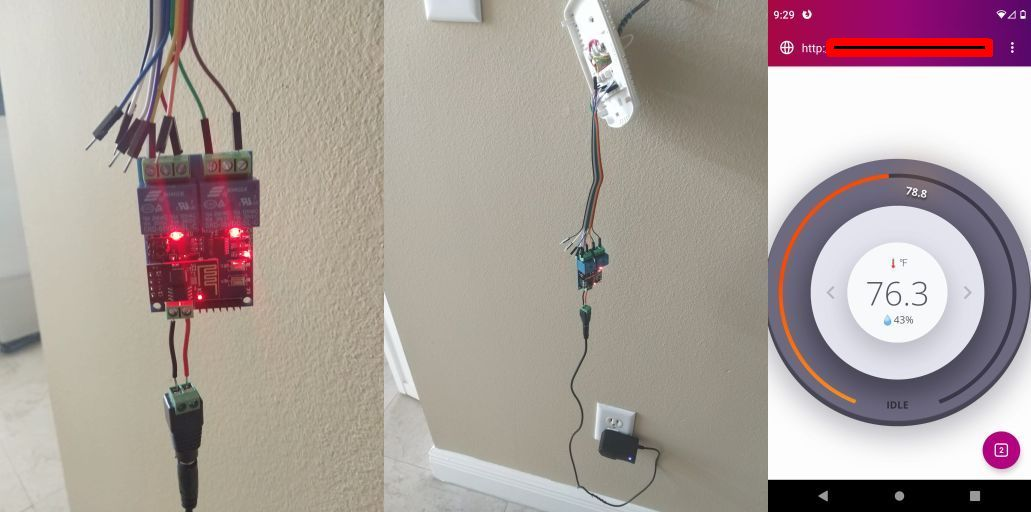
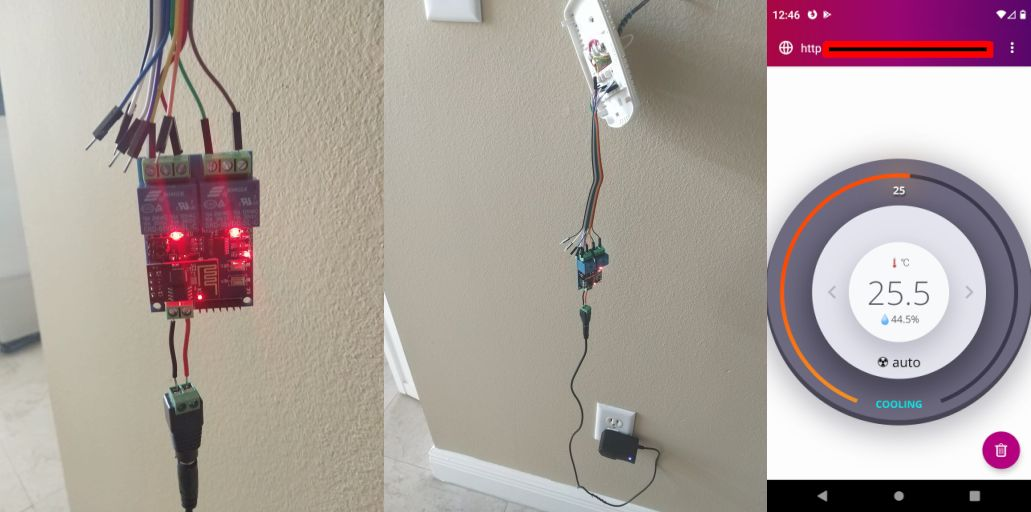
Added fan control, javascript strict mode
The fan has a single rule which is the state set to "auto" (match ac state) or "on" (always on).

The html page shows the current rule "auto" or "on", and when the fan is on, the
html page shows the state in black, gray otherwise.

Files:

lessmostat.py
- Added fan control, right now the fan can only be set to "on" or "auto".

lessmostat.html
- Added display of fan state and interaction.
- Added strict mode, fixed variable declarations.

lessmostat.css
- Added display of fan state.

readme.md
- Removed fan control todo

tiles.pjg
- Added web UI pic with fan control

Tests:
- Controlled fan on and auto with the html ui
  - verified when AC turns on and fan control is auto, the fan turns on.
  - verified when AC turns off and fan control is auto, the fan turns off.
  - verified when AC turns off and fan control is on, the fan is left on.
  - verified when AC turns on and fan control is on, the fan is left on.
  - verified fan control can be set on and off when ac is on or off.

diff --git a/html/lessmostat.html b/html/lessmostat.html
@@ -12,7 +12,7 @@
     <!-- from https://thenounproject.com/term/thermostat/614999/ -->
     <link rel="icon" type="image/svg+xml" href="lessmostat.svg">
 <script type = "text/javascript" language = "javascript">
-
+'use strict';
 var mqtt;
 var reconnectTimeout = 2000;
 var host="192.168.8.200";
@@ -23,6 +23,8 @@ var currentDeg = 30;
 var currentHumid = 44;
 var currentAcState = "unknown";
 var displayCelsius = true;
+var targetFanState = "auto";
+var currentFanState = "unknown";
 
 var topic_root = "apartment/lessmostat/"
 
@@ -36,33 +38,40 @@ function onMessageArrived(message) {
         $(".units").fadeOut(1000, function() {
             $(".units").fadeIn(1000)
         });
-        data = JSON.parse(message.payloadString);
+        var data = JSON.parse(message.payloadString);
         currentDeg = data.temp;
         currentHumid = data.humid;
         updateGr();
 
     } else if (topic == topic_root + "info/state") {
-        data = JSON.parse(message.payloadString);
+        var data = JSON.parse(message.payloadString);
         // XXX This asssumes a lot about the rules
-        ac_rules = data.state.config.ac_rules;
-        ac_on_rule = ac_rules[0].state == "on" ? ac_rules[0] : ac_rules[1];
+        var ac_rules = data.state.config.ac_rules;
+        var ac_on_rule = ac_rules[0].state == "on" ? ac_rules[0] : ac_rules[1];
+        var fan_rules = data.state.config.fan_rules;
+        var fan_on_rule = fan_rules[0];
+
         targetDeg = ac_on_rule.temp;
-        // XXX Note this is not necessary and may be weird if the message was
-        //     caused by this client
         currentAcState = data.state.ac;
         currentDeg = data.state.sensor.temp;
         currentHumid = data.state.sensor.humid;
+        targetFanState = fan_on_rule.state; 
+        currentFanState = data.state.fan;
         updateGr();
 
     } else if (topic == topic_root + "info/ac") {
-        data = JSON.parse(message.payloadString);
+        var data = JSON.parse(message.payloadString);
         currentAcState = data.state;
+        updateGr();
+    } else if (topic == topic_root + "info/fan") {
+        var data = JSON.parse(message.payloadString);
+        currentFanState = data.state;
         updateGr();
     }
 };	
 
 function requestTargetDeg(newTargetDeg) {
-    message = new Paho.MQTT.Message(JSON.stringify({ 
+    var message = new Paho.MQTT.Message(JSON.stringify({ 
         ts: Math.round((new Date()).getTime() / 1000),  
         state : "on", 
         temp : newTargetDeg 
@@ -71,12 +80,24 @@ function requestTargetDeg(newTargetDeg) {
     mqtt.send(message);
 }
 
+function requestFanToggle() {
+    var requestedFanState = "on";
+    if (targetFanState == "on") {
+        requestedFanState = "auto";
+    }
+    var message = new Paho.MQTT.Message(JSON.stringify({ 
+        ts: Math.round((new Date()).getTime() / 1000),  
+        state : requestedFanState, 
+    }));
+    message.destinationName = topic_root + "control/fan";
+    mqtt.send(message);
+}
+
 function onConnect() {
     // Once a connection has been made, make a subscription and send a message.
-
     console.log("Connected ");
     mqtt.subscribe(topic_root + "#");
-    message = new Paho.MQTT.Message("{ \"cmd\" : \"test\" }");
+    var message = new Paho.MQTT.Message("{ \"cmd\" : \"test\" }");
     message.destinationName = topic_root + "control/state";
     mqtt.send(message);
 }
@@ -143,6 +164,16 @@ function updateGr() {
         $(".cooling").text("idle");
         $(".cooling").css("color", "#2e2c3a")
     }
+    if (targetFanState == "on") {
+        $(".fan").text("" + '\u2622' + " on");
+    } else {
+        $(".fan").text("" + '\u2622' + " auto");
+    }
+    if (currentFanState == "on") {
+        $(".fan").css("color", "black");
+    } else {
+        $(".fan").css("color", "gray");
+    }
 }
 
 
@@ -174,6 +205,9 @@ $(document).ready(function(){
         displayCelsius = !displayCelsius;
         updateGr();
     });
+    $(".fan").mousedown(function() {
+        requestFanToggle();
+    });
 });
 
 </script>
@@ -203,6 +237,7 @@ $(document).ready(function(){
         <span class="heat">19</span>
         <span class="units">&#8451;</span>
         <span class="humid">44%</span>
+        <span class="fan">&#9762; auto</span>
     </div>
   </div>
 </div>

diff --git a/html/lessmostat.css b/html/lessmostat.css
@@ -218,6 +218,14 @@ body {
     font-size: 15px;
 }
 
+.thermostat .center .small .fan {
+    display: block;
+    position: relative;
+    top: -25px;
+    color: #57545f;
+    font-size: 20px;
+}
+
 .thermostat .center .small .units {
     position: relative;
     display: block;

diff --git a/upython/lessmostat.py b/upython/lessmostat.py
@@ -88,6 +88,12 @@ def read_config(state):
             print("Read config data", js)
             state["config"].update(json.loads(js))
 
+            # Validate the configuration
+            if (len(state["config"]["fan_rules"]) == 0):
+                # If no fan rules, assume auto
+                state["config"]["fan_rules"] = [ { "state" : "auto" } ]
+
+
     except Exception as e:
         print("Exception reading config file %s" % config_filename, e)
 
@@ -117,6 +123,11 @@ def sub_cb(client, topic, msg):
 
     Start at the given temp or higher
     { "state" : "on", temp="26" }
+
+    Set fan to "auto" or "on"
+    { "state" : "auto" }
+    { "state" : "on" }
+    
 
     XXX TODO complex scheduling
     messages
@@ -187,6 +198,14 @@ def sub_cb(client, topic, msg):
             ]
             # XXX Should this publish only the delta?
             publish_message(client, "info/state", { 'state' : state } )
+
+        elif (topic.endswith("control/fan")):
+            state["config"]["fan_rules"] = [
+                { "state" : d["state"] },
+            ]
+            # XXX Should this publish only the delta?
+            publish_message(client, "info/state", { 'state' : state } )
+
             
     except Exception as e:
         print("Exception handling topic %s message %s" % (repr(topic), repr(msg)), e) 
@@ -243,8 +262,9 @@ ac_off = bytes(relay_1_off)
 def turn_ac(uart, client, on):
     if (on):
         # Always turn fan on before ac
-        # XXX Not necessary if fan is on by default?
-        turn_fan(uart, client, on)
+        if (state["fan"] != "on"):
+            print("ac forcing fan on")
+            turn_fan(uart, client, on)
 
         # XXX Should prevent somewhere it's not trying to re-enable ac before the 
         #     safety idle period
@@ -256,9 +276,7 @@ def turn_ac(uart, client, on):
         uart_write(uart, ac_off)
         ac_state = "off"
         
-        # Always turn fan off after ac
-        # XXX Not necessary if fan is on by default?
-        turn_fan(uart, client, on)
+        # Leave the fan on, let it turn off depending on the rules
 
     publish_message(client, "info/ac", { 'state' : ac_state })
     state["ac"] = ac_state
@@ -276,10 +294,16 @@ state = {
     #     restarting the program
     "config" : {
         "mqtt_broker" : "192.168.8.200",
+        # The AC has a single rule which is to start at the given temperature +
+        # on_threshold and stop at the temperature - off_threshold
         "ac_rules" : [
             { "state" : "on", "temp" : 30 },
         ],
-        "fan_rules" : [],
+        # The fan has a single rule which is to set the fan to "on" (always
+        # on or "auto" (match ac state)
+        "fan_rules" : [
+            { "state" : "auto" }
+        ],
         # On and off thresholds in 1/10th of a celsius degree (ie will turn on
         # at temp + on threshold and off at temp - off threshold)
         "on_threshold_decidegs" : 4, 
@@ -398,14 +422,30 @@ def main():
                     if (rule_temp is not None):
                         if ((state["ac"] != "on") and (rule_state == "on") and 
                             (temp*10 >= rule_temp*10 + on_threshold_decidegs)):
-                            print("Starting fan and ac")
+                            print("Starting ac")
                             turn_ac(uart, client, True)
                             
                         elif ((state["ac"] != "off") and (rule_state == "on") and 
                             (temp*10 <= rule_temp*10 - off_threshold_decidegs)):
-                            print("Stopping fan and ac")
+                            print("Stopping ac")
                             turn_ac(uart, client, False)
+                
+                fan_rules = state["config"]["fan_rules"]
+                for rule in fan_rules:
+                    rule_state = rule["state"]
+                    if ((rule_state == "on") and (state["fan"] != "on")):
+                        print("Starting fan")
+                        turn_fan(uart, client, True)
 
+                    elif ((rule_state == "auto") and (state["fan"] != state["ac"])):
+                        # Note that in reality this code will only run to turn
+                        # the fan off, the fan is turned on unconditionally when
+                        # at ac turn on time
+                        print("Matching fan to ac")
+                        turn_fan(uart, client, state["ac"] == "on")
+                
+
+                    
         client.disconnect()
 
     finally:

diff --git a/readme.md b/readme.md
@@ -15,7 +15,7 @@ This is a
 
 ## TODOs
 - alexa integration with fauxmo/fauxhue
-- complex hourly/daily/weekly/dusk/dawn scheduling, independent fan control UI
+- complex hourly/daily/weekly/dusk/dawn scheduling
 - charts statistics, integration with influxdb/grafana
 - MQTT robustness, esp8266 reconnection on wifi/broker loss, browser reconnection on wake up, etc 
 - deep sleep/batteries
